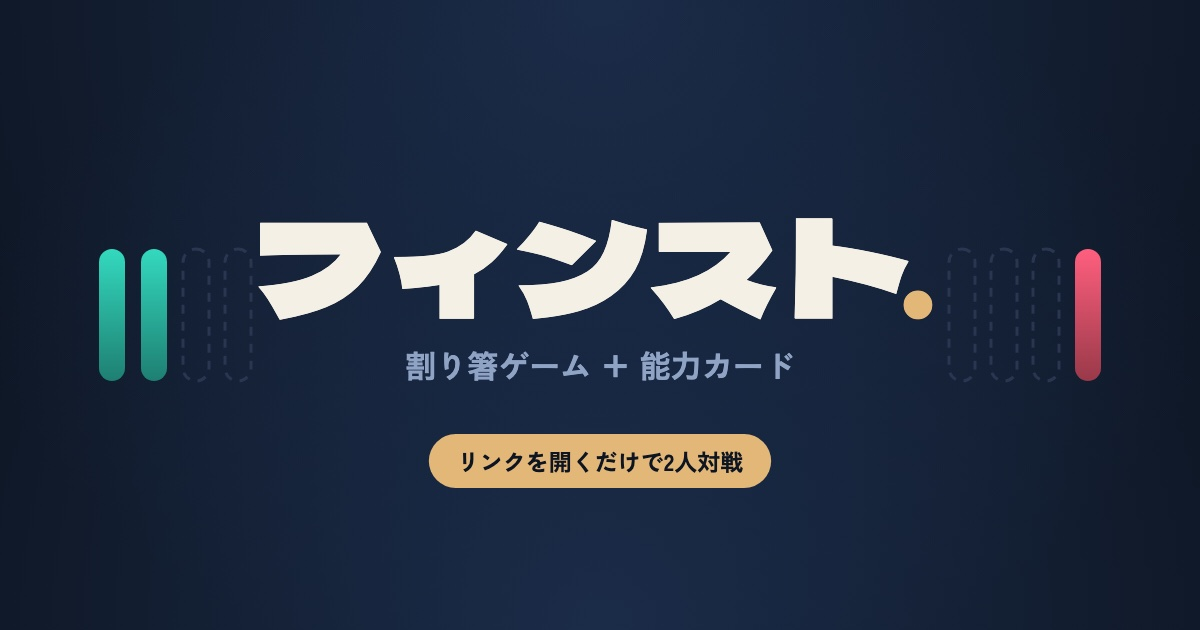
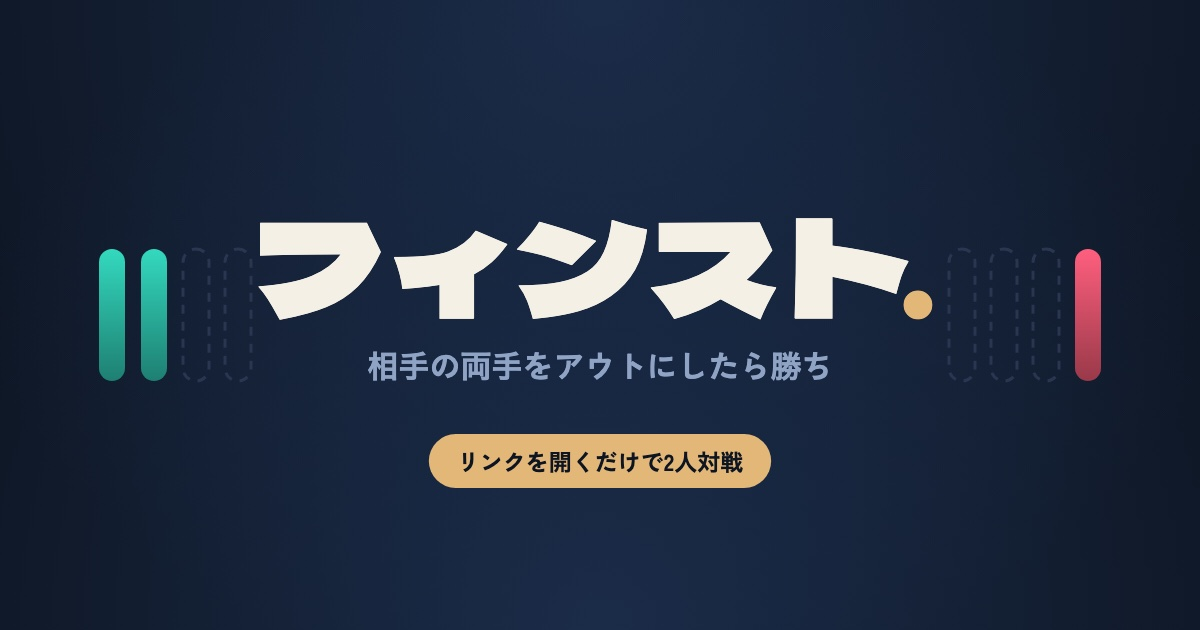
ルール説明を端的にし、由来やカオスの言及を落とす
「割り箸ゲームに能力カードを乗せた」という成り立ちの説明と「競技バランス
よりカオス重視」という但し書きは、遊ぶのに要らない情報だったので削除。
遊び方は「勝ち負け／本数とアウト／番にできること／能力カード」の4節に整理。
タイトル・OGP画像・README も揃えた。

Changed region(s): [[0.3083, 0.5429, 0.7092, 0.6032]]

diff --git a/index.html b/index.html
@@ -1,7 +1,7 @@
 <meta charset="utf-8">
 <meta name="viewport" content="width=device-width, initial-scale=1, viewport-fit=cover">
-<title>フィンスト — 割り箸ゲーム＋能力カード</title>
-<meta name="description" content="割り箸ゲームに能力カードを乗せた2人対戦のブラウザゲーム。リンクを開くだけで対戦できます。">
+<title>フィンスト</title>
+<meta name="description" content="相手の両手をアウトにしたら勝ち。リンクを開くだけで遊べる2人対戦のブラウザゲームです。">
 <meta name="theme-color" content="#0D1522">
 
 <link rel="icon" href="assets/icon.svg" type="image/svg+xml">
@@ -11,7 +11,7 @@
 <!-- LINE などに貼ったときのプレビュー -->
 <meta property="og:type" content="website">
 <meta property="og:site_name" content="フィンスト">
-<meta property="og:title" content="フィンスト — 割り箸ゲーム＋能力カード">
+<meta property="og:title" content="フィンスト">
 <meta property="og:description" content="リンクを開くだけで2人対戦。インストール不要のブラウザゲームです。">
 <meta property="og:url" content="https://finstgame.github.io/">
 <meta property="og:image" content="https://finstgame.github.io/assets/og.jpg">
@@ -1315,11 +1315,10 @@ function showLobby(mode){
 
   el.innerHTML = `
     <div class="brand">フィンスト<span class="dot">.</span></div>
-    <div class="tag">割り箸ゲーム ＋ 能力カード</div>
+    <div class="tag">2人対戦・能力カードあり</div>
     <div class="lobby-about">
-      指で遊ぶ「割り箸ゲーム」に能力カードを乗せた2人対戦です。
       自分の手で相手の手をタップして本数を押しつけ、<b>相手の両手をアウトにしたら勝ち</b>。
-      1試合はだいたい3〜5分です。
+      1試合3〜5分。
     </div>
     <button class="ghost" style="width:100%" onclick="openInfo()">遊び方とカード一覧を見る</button>
     <h3>オンラインで対戦する</h3>
@@ -1386,32 +1385,31 @@ function boot(){
 /* ================= 遊び方とカード一覧 ================= */
 function openInfo(){
   document.getElementById("infoBody").innerHTML = `
-    <h4>フィンストとは</h4>
-    <p>指で遊ぶ「割り箸ゲーム」に、能力カードを乗せた2人対戦です。
-       <span class="em">相手の両手をアウトにしたら勝ち</span>。
-       競技バランスよりカオス重視で作ってあります。</p>
+    <h4>勝ち負け</h4>
+    <p>おたがい <b>左手1本 / 右手1本</b> ではじまり、
+       <span class="em">相手の両手をアウトにしたら勝ち</span>。</p>
 
-    <h4>基本ルール</h4>
+    <h4>本数とアウト</h4>
     <ul>
-      <li>おたがい <b>左手1本 / 右手1本</b> ではじまります</li>
-      <li>自分の生きている手で相手の生きている手をタップすると、<b>自分の本数が相手に足される</b></li>
-      <li><b>ちょうど5になった手はアウト</b>。5を超えたら5で割った余りに繰り下がる
-          （例：3本の手に4ダメージ → 7 → <b>2本</b>で生存）</li>
-      <li>自分の番にできるのは <span class="em">タッチ・分配・カード1枚</span> のどれか1つだけ</li>
-      <li>分配は両手の合計を組み替えます。<b>アウトの手も復活できます</b>。
-          ただし同じ配分に戻すだけ・左右を入れ替えるだけは禁止</li>
-      <li>両手ともアウトになったら負け</li>
+      <li><b>ちょうど5になった手はアウト</b></li>
+      <li>5を超えたら、5で割った余りに繰り下がる（3本の手に4 → 7 → <b>2本</b>）</li>
+      <li>両手ともアウトで負け</li>
+    </ul>
+
+    <h4>自分の番にできること（どれか1つ）</h4>
+    <ul>
+      <li><span class="em">タッチ</span> … 自分の手で相手の手をタップ。自分の本数が相手に足される</li>
+      <li><span class="em">分配</span> … 両手の合計を組み替える。0の手も復活できる。
+          同じ配分・左右の入れ替えだけは不可</li>
+      <li><span class="em">カード</span> … 手札から1枚使う</li>
     </ul>
 
     <h4>能力カード</h4>
     <ul>
-      <li>10種から <b>ランダムに3枚</b> 配られます</li>
-      <li>各カードは <b>1回だけ</b>。使ったら消えて、補充はありません</li>
-      <li>終盤は自然と、素の割り箸ゲームに戻ります</li>
-      <li><b>相手の手札は見えません</b>（枚数だけ分かります）</li>
-      <li>「防御割り込み」のカードは、<b>相手に攻撃されたとき</b>に使います。
-          15秒以内に選ばないと自動でパスになります</li>
-      <li><b>拡張</b>を使ったプレイヤーだけ、上限が5本・アウトになる値が6に変わります</li>
+      <li>10種から3枚。<b>各1回きり</b>で補充なし</li>
+      <li><b>相手の手札は見えない</b>（枚数だけ分かる）</li>
+      <li>「防御割り込み」は<b>相手に攻撃されたとき</b>に使う。15秒で自動パス</li>
+      <li><b>拡張</b>を使うと、その人だけ上限5本・アウトは6になる</li>
     </ul>
 
     <h4>カード一覧</h4>
@@ -1428,11 +1426,11 @@ function openInfo(){
       }).join("")}
     </div>
 
-    <h4>オンライン対戦について</h4>
+    <h4>オンライン</h4>
     <ul>
-      <li>部屋を作って<b>6文字のコード</b>を相手に送るか、リンクを開いてもらえば始まります</li>
-      <li>途中で閉じても、同じ端末で開き直せば<b>同じ対戦に戻れます</b></li>
-      <li>やめたいときは下の「やめる」から。対戦中にやめると<b>投了扱い</b>になります</li>
+      <li><b>6文字のコード</b>かリンクで合流</li>
+      <li>閉じても、同じ端末で開き直せば戻れる</li>
+      <li>「やめる」は対戦中だと<b>投了扱い</b></li>
     </ul>`;
   document.getElementById("info").classList.add("open");
   document.getElementById("info").scrollTop = 0;
@@ -1753,7 +1751,7 @@ function handHTML(p,h){
 function cardsHTML(p){
   const hand = S.cards[p];
   if(hand.length === 0){
-    return `<div class="hand-row" data-empty="true">手札なし — 素の割り箸ゲーム</div>`;
+    return `<div class="hand-row" data-empty="true">手札なし</div>`;
   }
 
   const faceUp = online ? p === seat : (p === S.turn && !S.over);

diff --git a/README.md b/README.md
@@ -1,28 +1,35 @@
 # フィンスト
 
-指を使う対戦ゲーム「割り箸ゲーム（Chopsticks）」に能力カードを乗せた、2人対戦のブラウザゲーム。
+2人対戦のブラウザゲーム。相手の両手をアウトにしたら勝ち。
 
 **遊ぶ**: https://finstgame.github.io/
 
-- 部屋を作って6文字のコードを相手に送るか、リンクを開いてもらえば始まります
-- 1台を回して遊ぶモードもあります
-- インストール不要
+部屋を作って6文字のコードを相手に送るか、リンクを開いてもらえば始まります。
+インストール不要。1台を回して遊ぶモードもあります。
 
 ## ルール
 
-- 各プレイヤー 左手1本 / 右手1本 で開始
-- 自分の手で相手の手をタッチすると、自分の本数が相手に加算される
-- **ちょうど「法」の値になった手はアウト**（通常は5）。超えたら法で割った余りに繰り下がる
-- 分配で両手の本数を組み替えられる（同じ配分・左右入れ替えのみは禁止）
+- おたがい 左手1本 / 右手1本 ではじまる
+- **ちょうど5になった手はアウト**。5を超えたら5で割った余りに繰り下がる（3本の手に4 → 7 → 2本）
 - 両手ともアウトで負け
-- 10種の能力カードから3枚が配られる。各カードは1回だけ
+
+自分の番にできるのは、次のどれか1つ。
+
+| | |
+| --- | --- |
+| タッチ | 自分の手で相手の手をタップ。自分の本数が相手に足される |
+| 分配 | 両手の合計を組み替える。0の手も復活できる。同じ配分・左右の入れ替えだけは不可 |
+| カード | 手札から1枚使う |
+
+能力カードは10種から3枚。各1回きりで補充なし。相手の手札は見えません。
+「防御割り込み」のカードは相手に攻撃されたときに使い、15秒で自動パスになります。
 
 ## 構成
 
 | ファイル | 中身 |
 | --- | --- |
 | `index.html` | 本体（フレームワークなしの素のHTML/CSS/JS） |
-| `finst-phase1.html` | カードなしの素の割り箸ゲーム（Phase 1 の原本） |
+| `finst-phase1.html` | カードなしの初期版 |
 | `supabase/schema.sql` | オンライン対戦用のテーブル・RLS・Realtime設定 |
 
 ## オンライン対戦について
